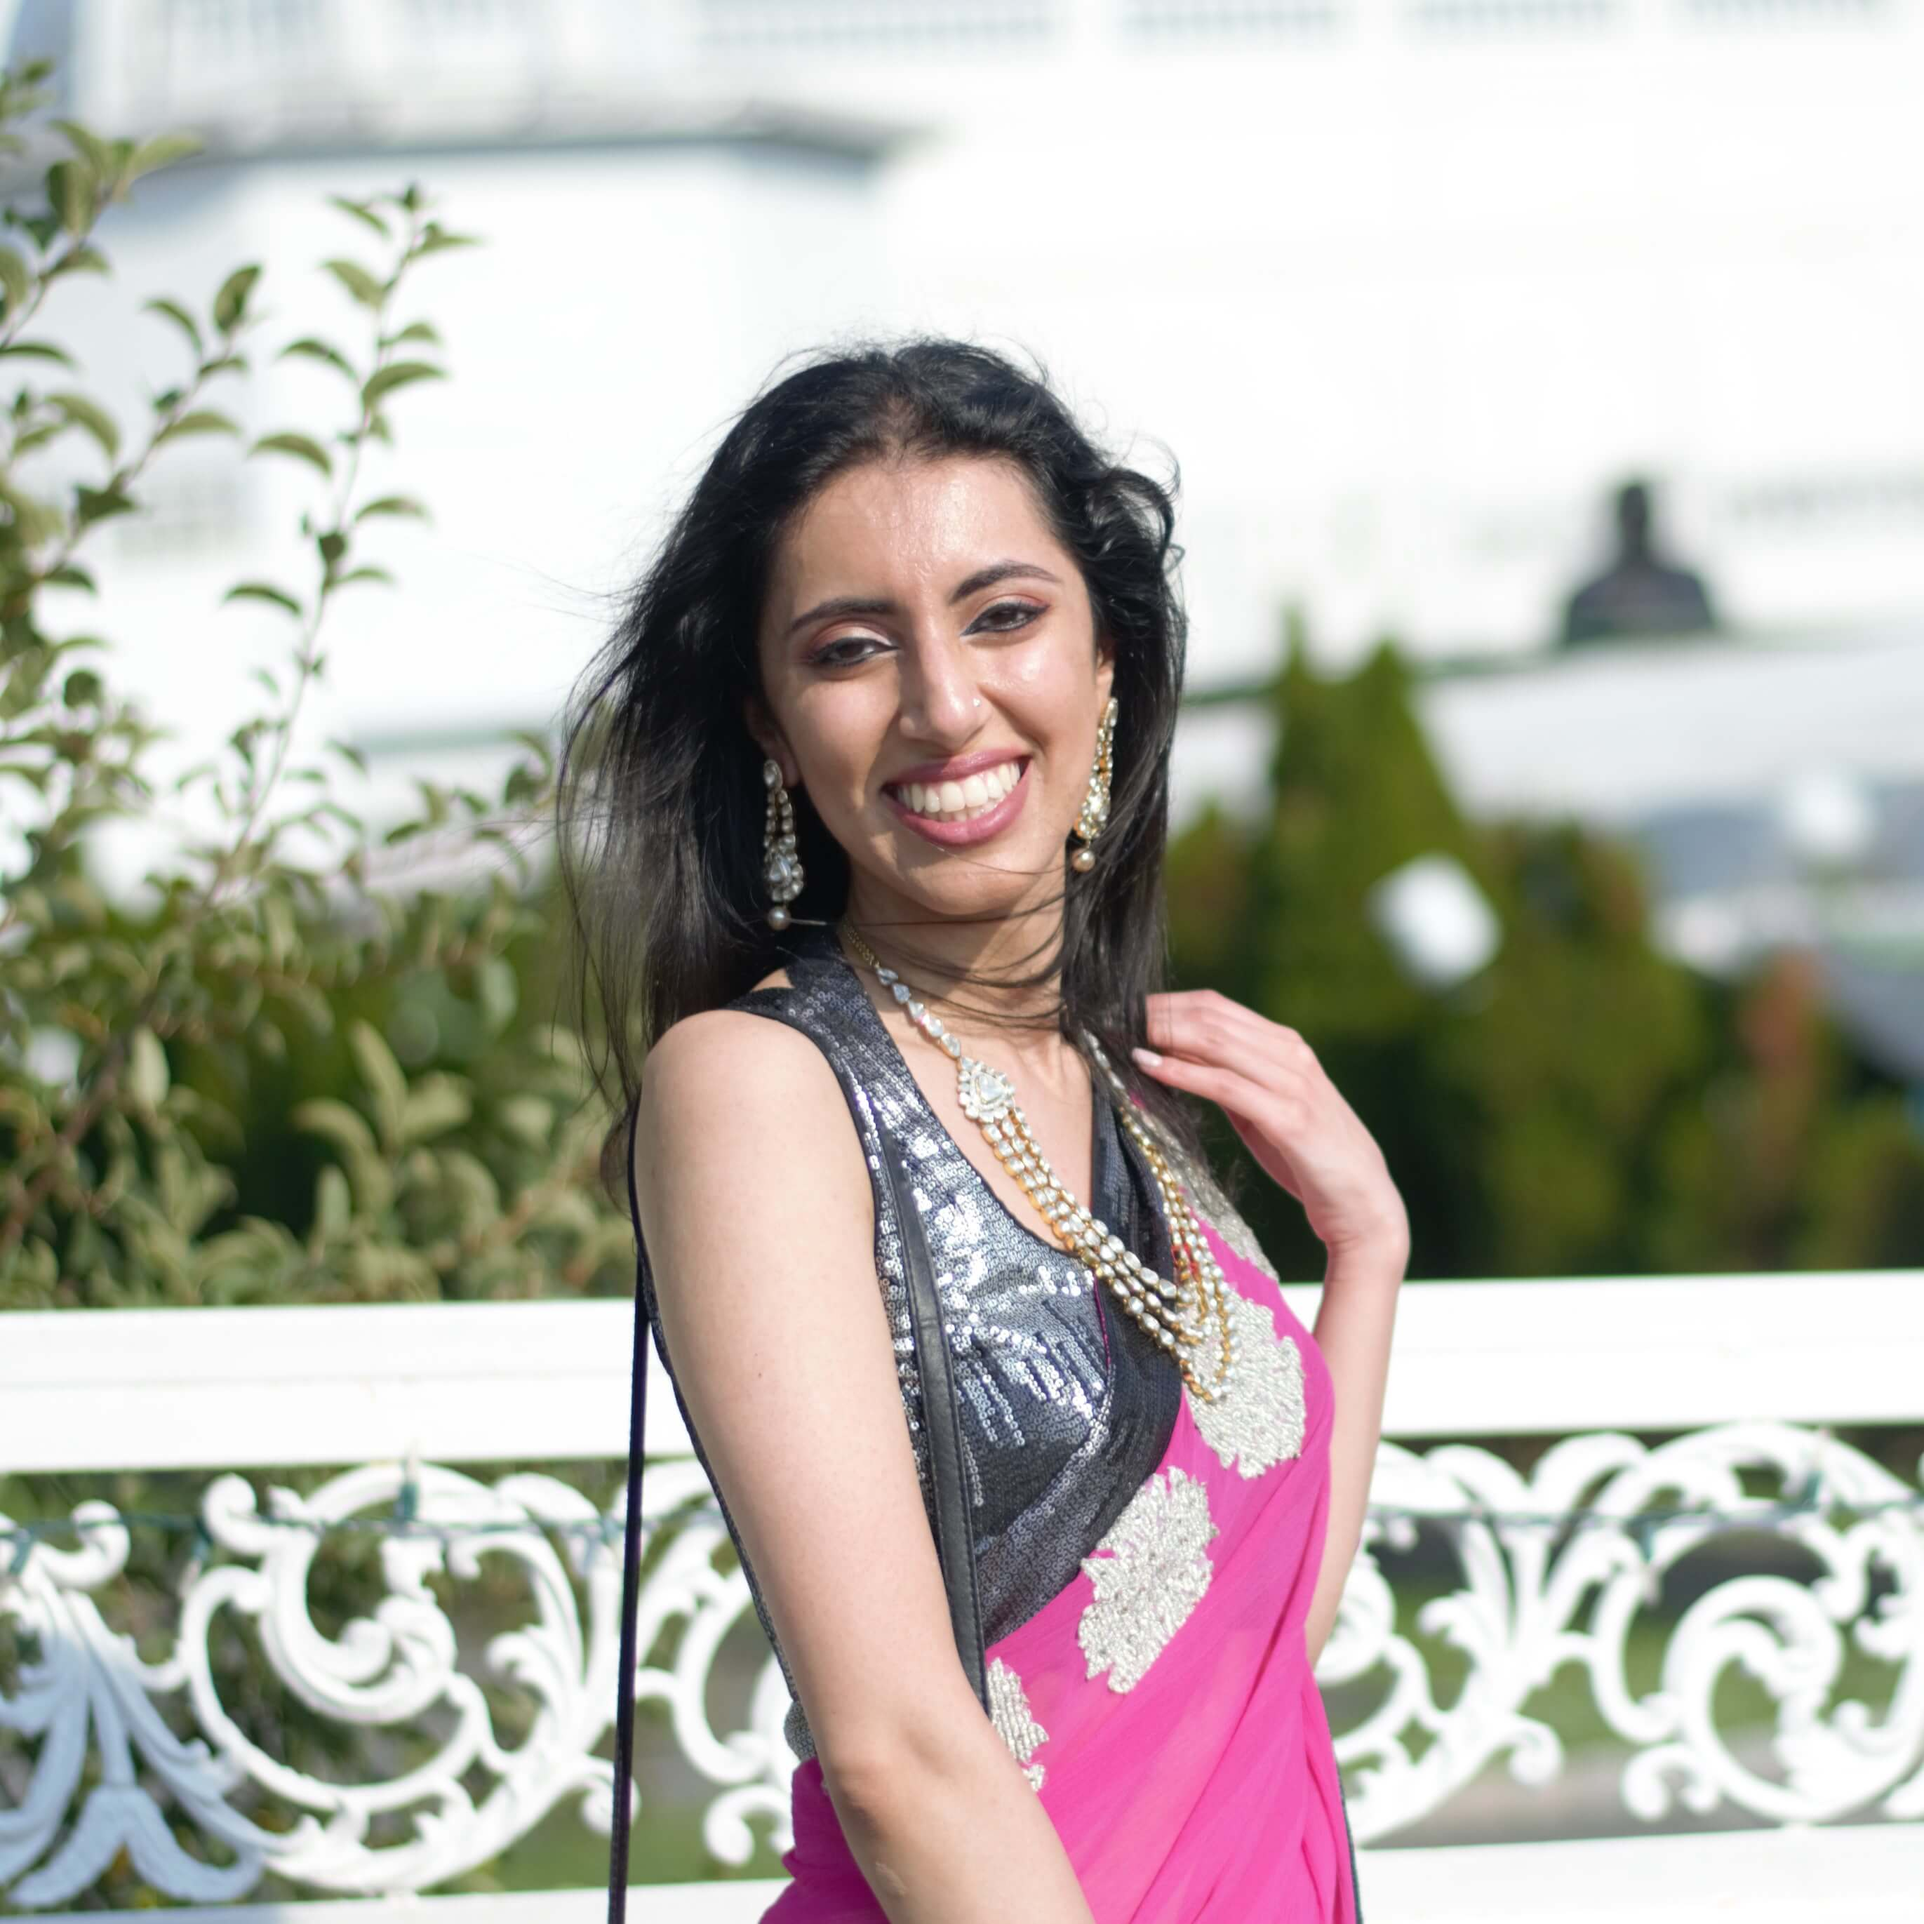
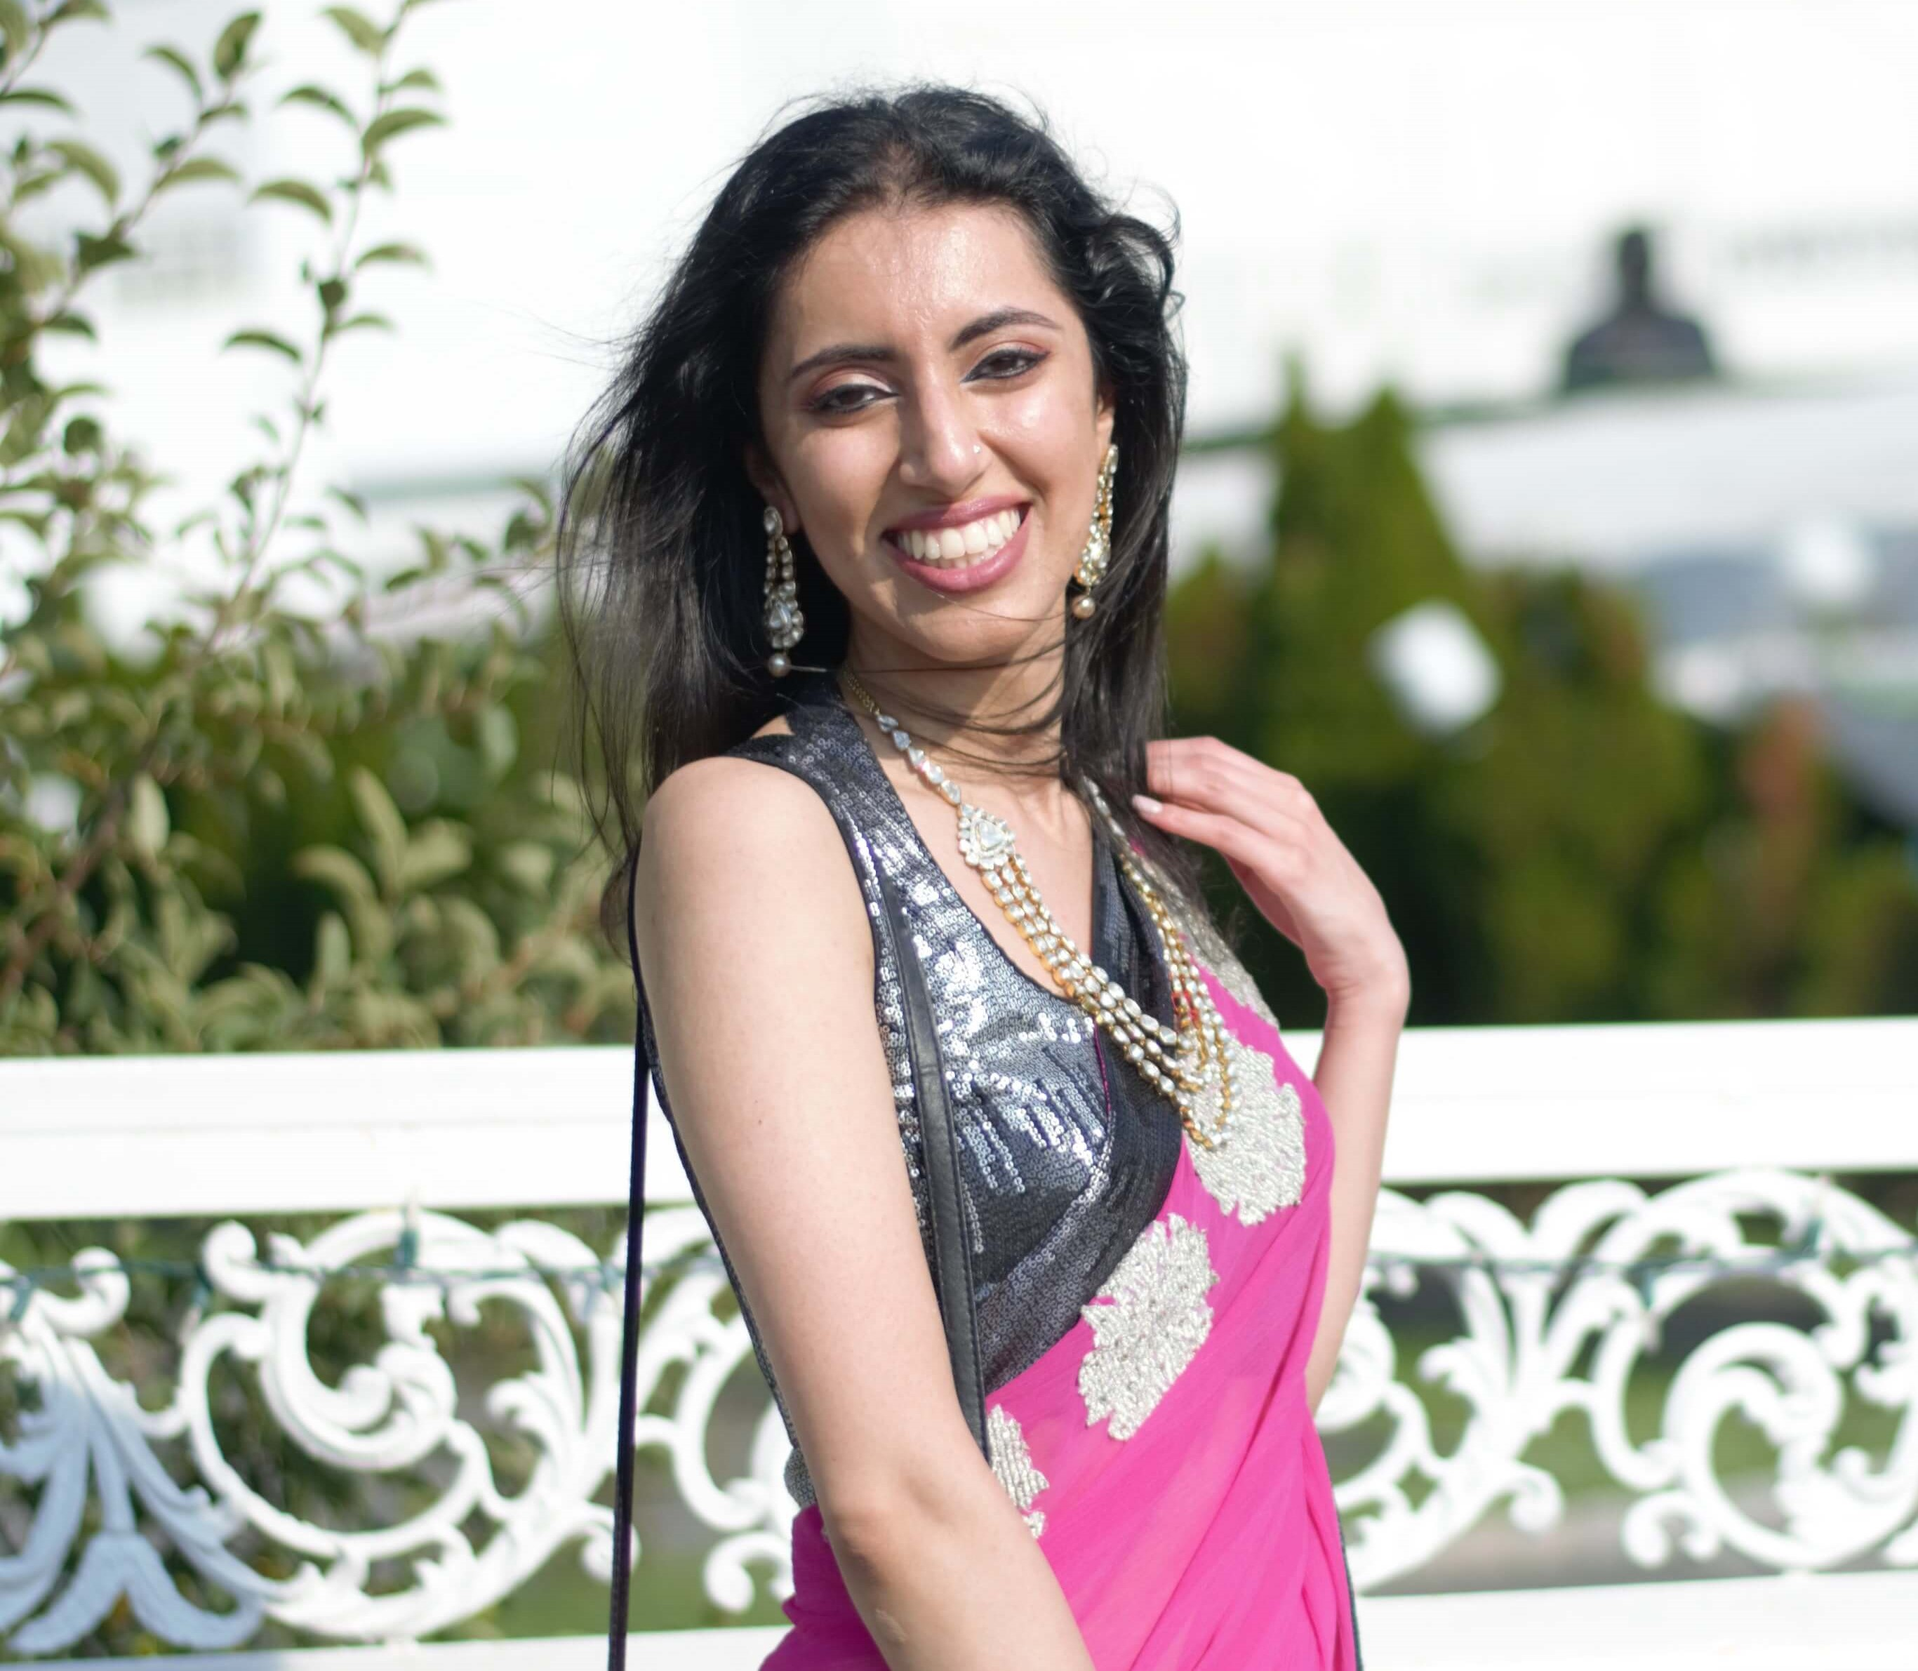
updated testimonials

diff --git a/src/components/Testimonials.js b/src/components/Testimonials.js
@@ -23,14 +23,12 @@ const Testimonials = () => {
               swipeable={false}
             >
               <TestimonialCard
-                image='/images/DSCF2264.jpg'
-                name='Chhavi Verg'
-                handel='@chhaviverg'
-                profileLink='https://www.instagram.com/chhaviverg/'
-                testimonial='As a new model, I was skeptical to work with Sona Jewelers, but
-                my friends and colleagues highly recommended me to work with
-                them. Together, we managed to pull off a successful campaign
-                that performed beyond my wildest expectations!'
+              scroll={true}
+                image='/images/3R1A2349.jpg'
+                name='Nisha Pawar'
+                handel='@lovelaughmirch'
+                profileLink='https://www.instagram.com/lovelaughmirch/'
+                testimonial='It was an absolute pleasure working with Sona Jewelers. They are the jewelers we’ve shopped at for all of our family milestones so partnering with them felt so natural. The communication on deliverables was clear and timely. I truly felt they valued my work and appreciated all my creative efforts. Everyone from their staff to their marketing team was respectful and timely on all aspects of our collaboration. Our partnership is one of my favorites til date.'
               />
               <TestimonialCard
                 image='/images/IMG_6908.JPG'
@@ -38,16 +36,6 @@ const Testimonials = () => {
                 handel='@sankissedskin'
                 profileLink='https://www.instagram.com/sankissedskin/'
                 testimonial='Sona Jewelers has been a house hold name for as long as I can remember. Their quality has never diminished. Every time there’s a wedding, it’s a known thing to go to Sona to find the best pieces of jewelry for the events. Riz has also helped in taking the prestigious name forward through his own love for beautiful pieces and marketing etiquette. I can’t wait to visit again! ♥'
-              />
-              <TestimonialCard
-                image='/images/IMG_6907.JPG'
-                name='Manya'
-                handel='@manyasaaraswat'
-                profileLink='https://www.instagram.com/manyasaaraswat/'
-                testimonial='It was a treat working for Sona Jewelers! They practically did
-                everything – with almost no time or effort for me! The best part
-                was that I could completely trust their team to represent my work
-                in the utmost professional manner.'
               />
               <TestimonialCard
                 scroll={true}
